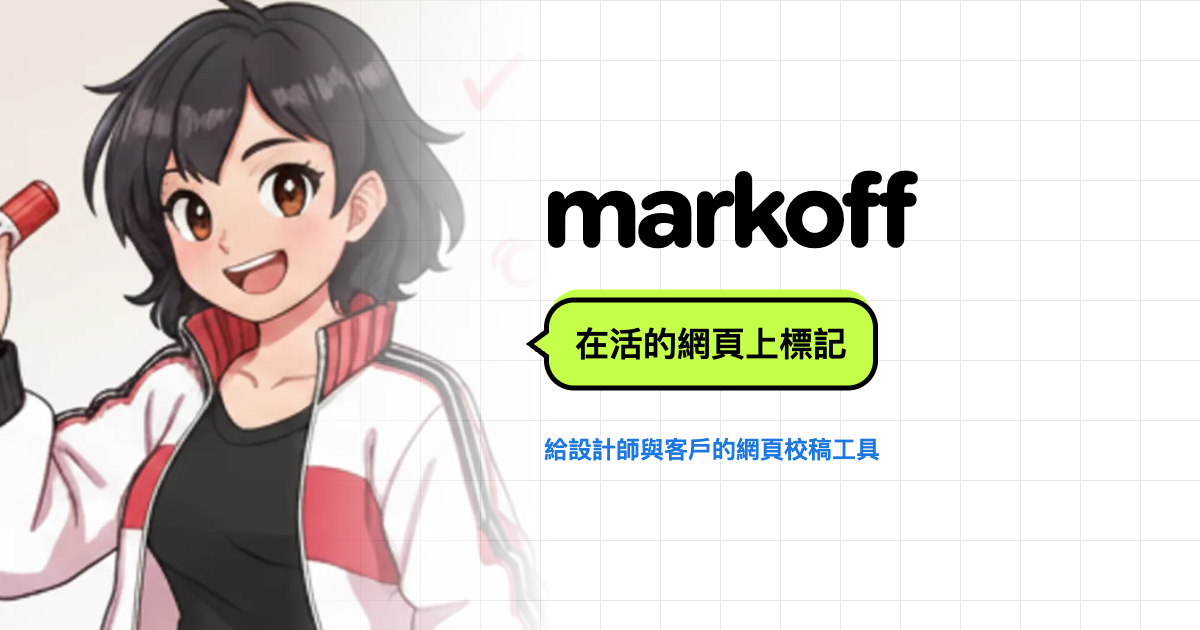
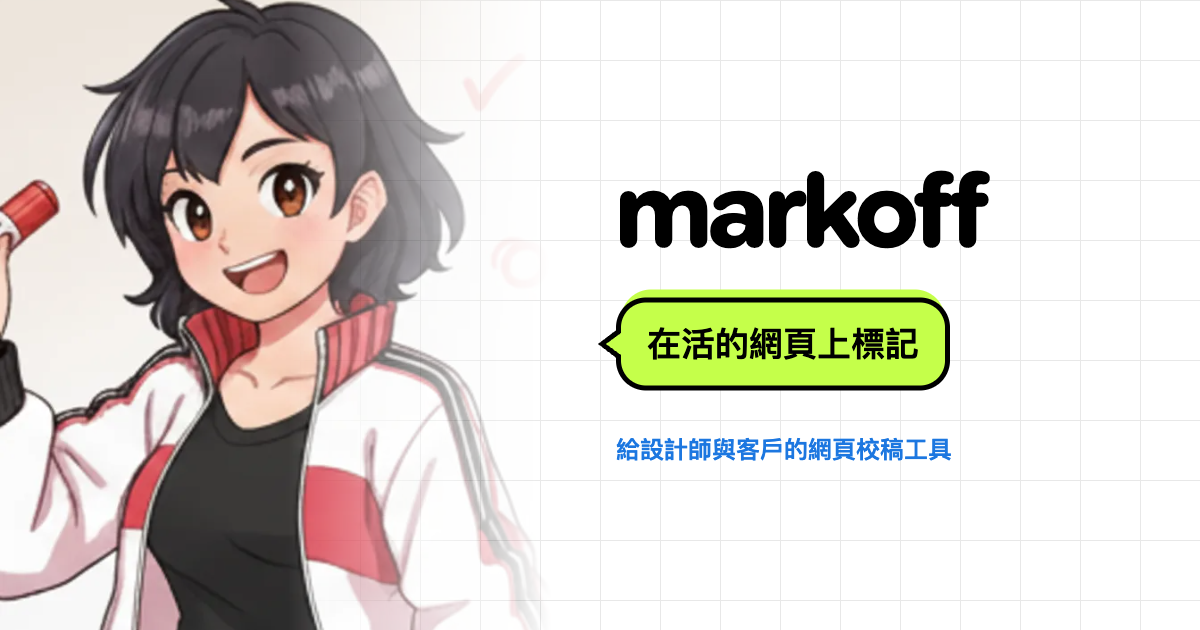
style(demo): OG 圖文字往右移
右欄 56%→50%、右內距 64→56px，文字左緣 549→616px（往右 67px）。
h1／泡泡／副標三者仍齊頭對在同一條線上。

Changed region(s): [[0.4317, 0.4524, 0.8017, 0.6333], [0.4317, 0.2714, 0.8325, 0.3921], [0.4317, 0.6937, 0.8017, 0.754]]

diff --git a/demo/og.html b/demo/og.html
@@ -30,8 +30,8 @@
       var(--cp-paper);
     -webkit-mask-image:linear-gradient(90deg,transparent 24%,#000 46%);
     mask-image:linear-gradient(90deg,transparent 24%,#000 46%)}
-  .copy{position:absolute;right:0;top:0;bottom:0;width:56%;z-index:2;
-    display:flex;flex-direction:column;justify-content:center;padding:0 64px 0 16px}
+  .copy{position:absolute;right:0;top:0;bottom:0;width:50%;z-index:2;
+    display:flex;flex-direction:column;justify-content:center;padding:0 56px 0 16px}
   h1{color:var(--cp-ink);font-size:104px;line-height:1;margin-bottom:34px;
     font-family:"Google Sans Flex","Inter","Noto Sans TC",sans-serif;
     font-variation-settings:"ROND" 100,"wdth" 100,"wght" 700;letter-spacing:-.02em}
